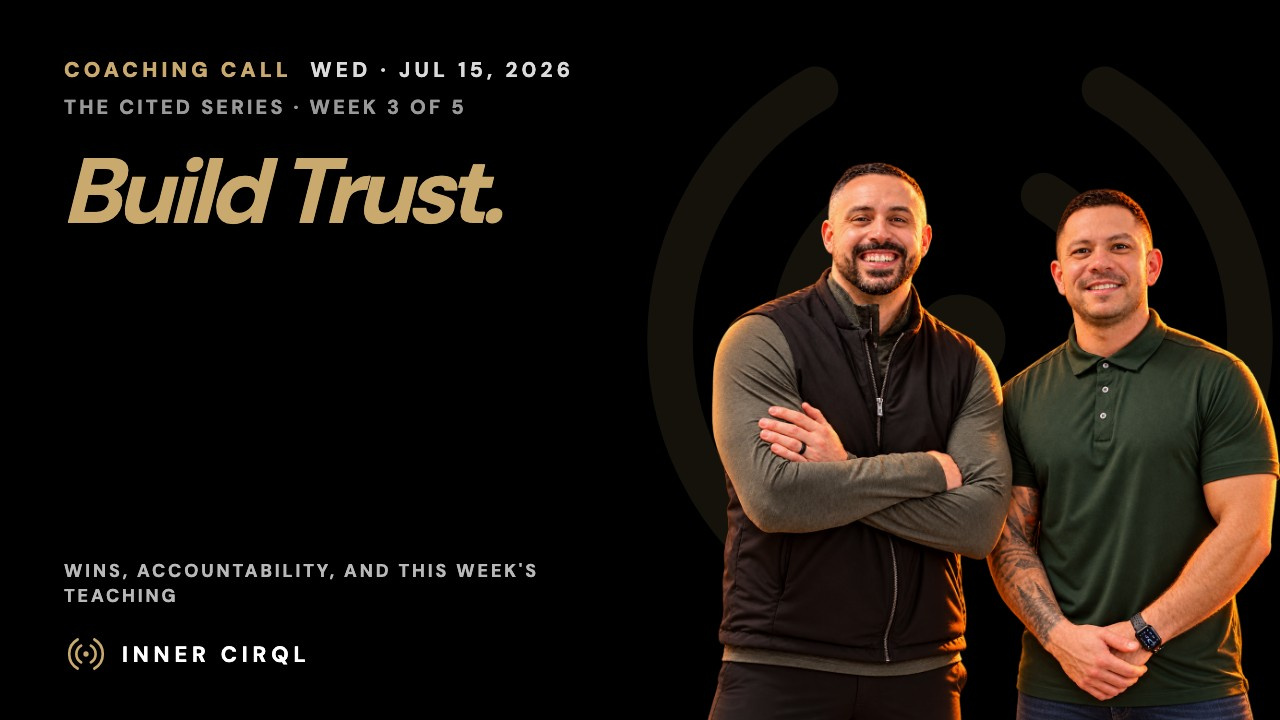
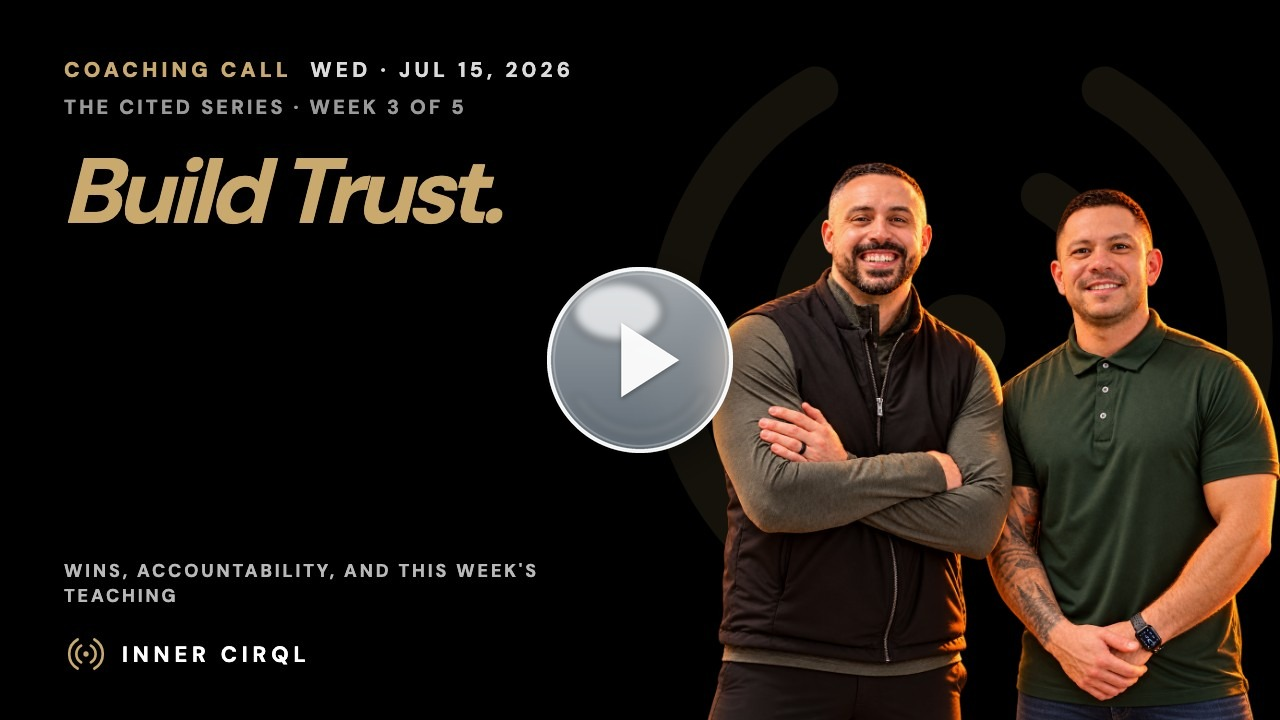
Training: retitle Jul 15 coaching call (The CITED Series · Week 3 · Trust.) + thumbnail

Changed region(s): [[0.4062, 0.3667, 0.5938, 0.6417]]

diff --git a/training/index.html b/training/index.html
@@ -94,6 +94,26 @@ window.LIBRARY = {
   ],
   "items": [
     {
+      "id": "v-2026-07-15",
+      "date": "2026-07-15",
+      "dateLabel": "July 15, 2026",
+      "series": "cited",
+      "week": 3,
+      "name": "Trust.",
+      "title": "The CITED Series · Week 3 · Trust.",
+      "headline": [
+        "Build",
+        "Trust."
+      ],
+      "sub": "The CITED Series · Week 3 of 5",
+      "desc": "The CITED Series, Week 3: Trust: lock your Realtor.com profile, the cross-check AI uses on your credibility. Wins, accountability, and the teaching segment, edited replay.",
+      "href": "https://coach.theinnercirql.com/2026-07-15/",
+      "pdf": null,
+      "slides": null,
+      "embed": "https://www.youtube.com/embed/42KBzIp_TEM?rel=0&modestbranding=1",
+      "thumb": "/assets/thumbs/jul-15-call.jpg?v=29920124"
+    },
+    {
       "id": "v-2026-07-08",
       "date": "2026-07-08",
       "dateLabel": "July 8, 2026",
@@ -532,26 +552,6 @@ window.LIBRARY = {
       "slides": null,
       "embed": "https://www.youtube.com/embed/HIqV88Ujlto?rel=0&modestbranding=1",
       "thumb": "/assets/thumbs/jul-22-call.jpg?v=1"
-    },
-    {
-      "id": "v-2026-07-15",
-      "date": "2026-07-15",
-      "dateLabel": "July 15, 2026",
-      "series": "cited",
-      "week": 3,
-      "name": "Trust.",
-      "title": "The CITED Series · Week 3 · Trust.",
-      "headline": [
-        "Build",
-        "Trust."
-      ],
-      "sub": "The CITED Series · Week 3 of 5",
-      "desc": "The CITED Series, Week 3: Trust: lock your Realtor.com profile, the cross-check AI uses on your credibility. Wins, accountability, and the teaching segment, edited replay.",
-      "href": "https://coach.theinnercirql.com/2026-07-15/",
-      "pdf": null,
-      "slides": null,
-      "embed": "https://www.youtube.com/embed/42KBzIp_TEM?rel=0&modestbranding=1",
-      "thumb": "/assets/thumbs/jul-15-call.jpg?v=1"
     },
     {
       "id": "t-become-a-listing-magnet",
